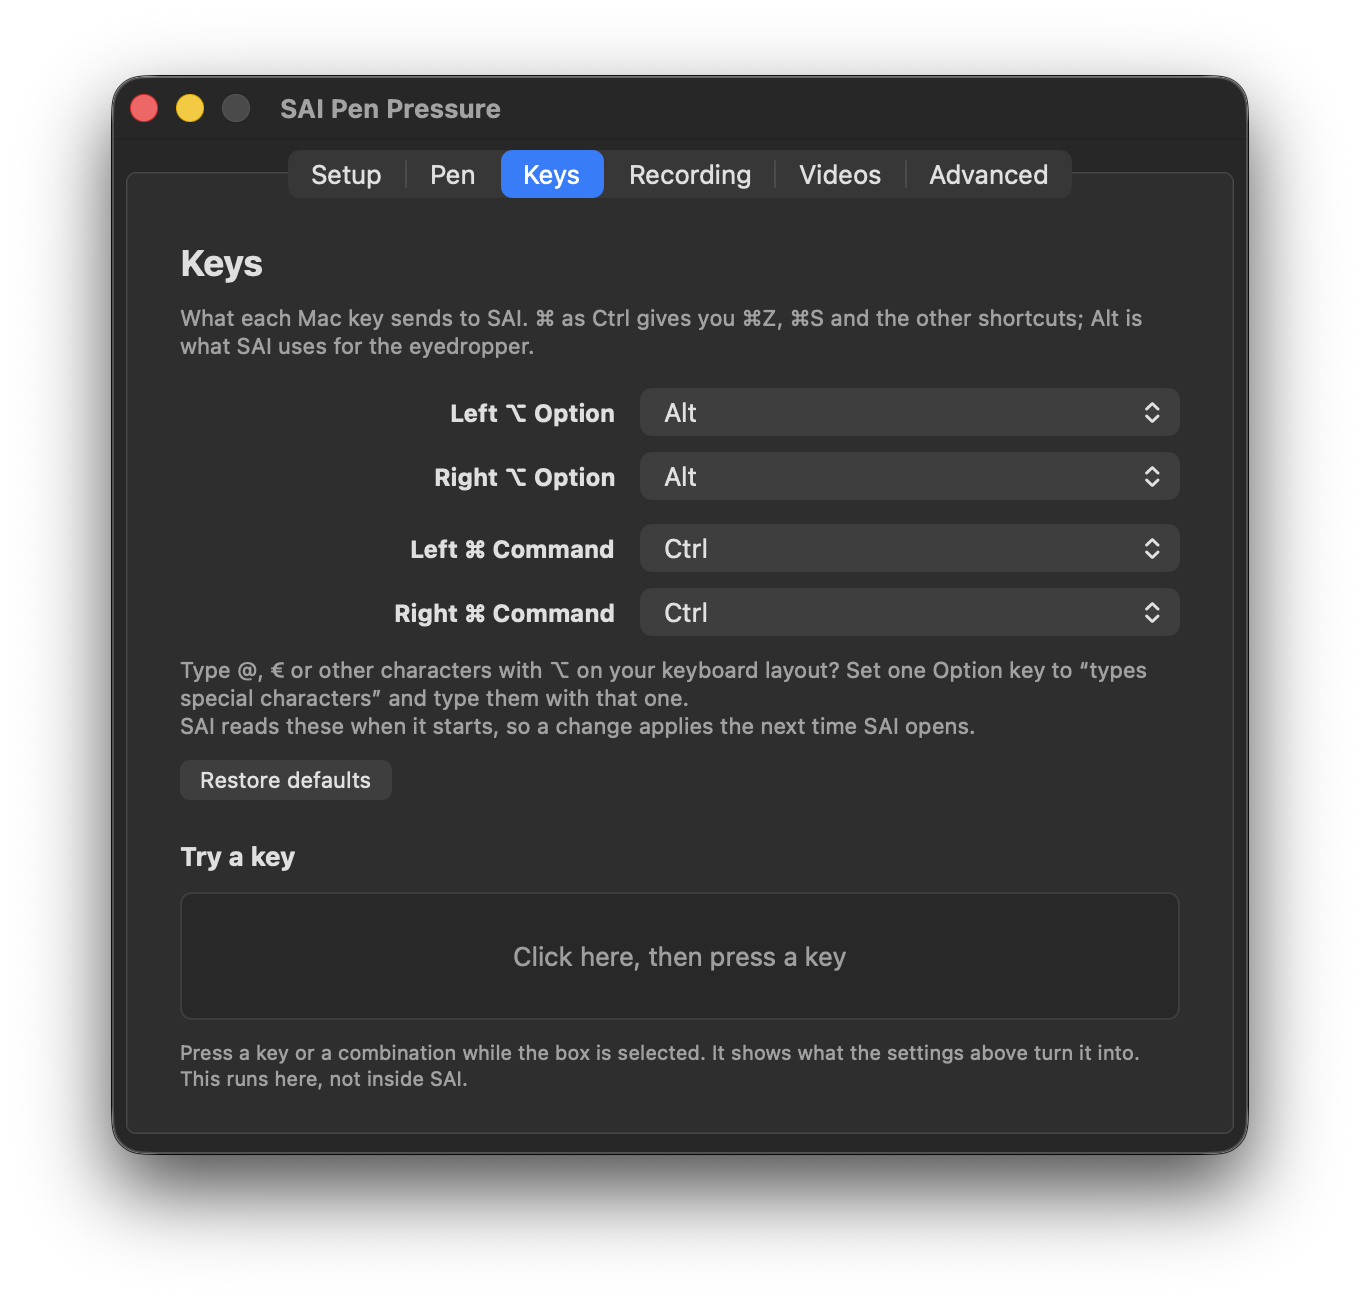
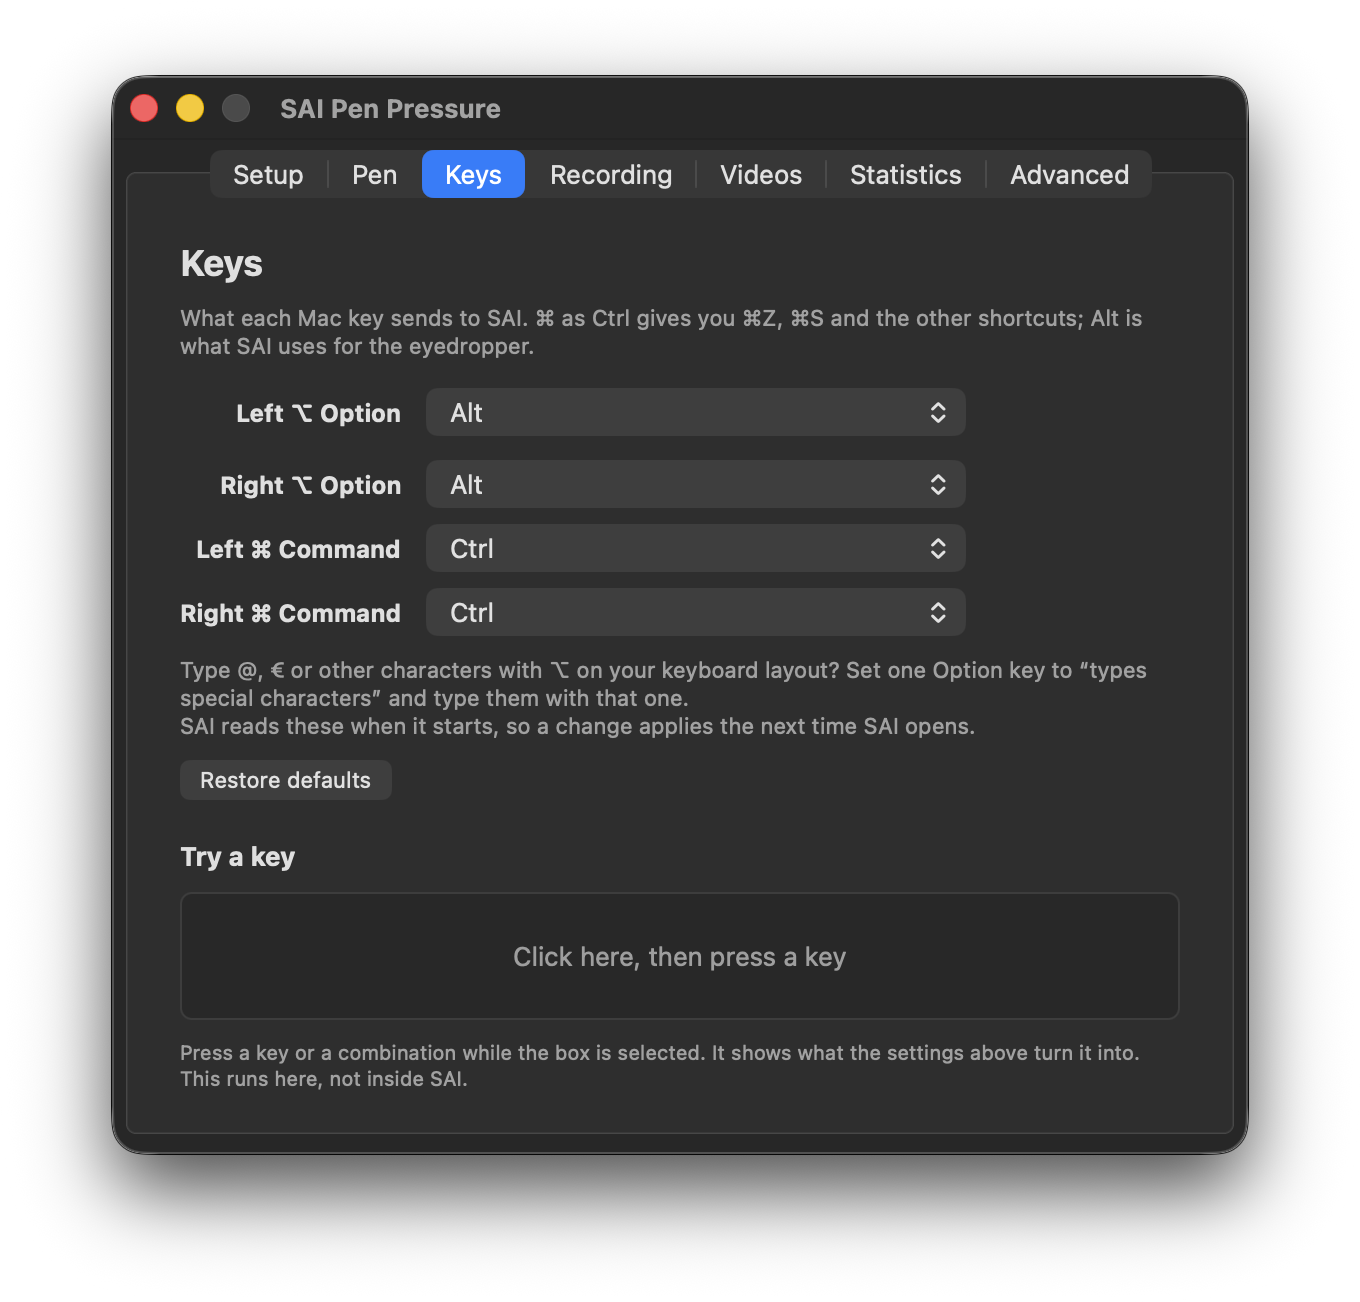
README: the Statistics tab, the new Videos grid, and screenshots of all seven tabs

diff --git a/README.md b/README.md
@@ -21,10 +21,10 @@ canvas** while you draw. Free and open source.
 
 ## What it looks like
 
-Six tabs, one window.
+Seven tabs, one window.
 
 <p align="center">
-  <a href="docs/assets/screenshots/all-tabs.png"><img src="docs/assets/screenshots/all-tabs.png" alt="All six tabs side by side. Top row: Setup, with Launch and Wake SAI; Pen, with pressure levels, pen feel presets, the curve and two more feel sliders, and a live test; Keys, with what each Option and Command key sends. Bottom row: Recording, with the timelapse switch and save folder; Videos, one video per drawing; Advanced, with developer mode, automatic updates, sharp text on Retina screens, the Language menu with the font in use, and the Wine in use." width="100%"></a>
+  <a href="docs/assets/screenshots/all-tabs.png"><img src="docs/assets/screenshots/all-tabs.png" alt="All seven tabs. Top row: Setup, with Launch and Wake SAI; Pen, with pressure levels, pen feel presets, the curve and two more feel sliders, and Test pen; Keys, with what each Option and Command key sends; Recording, with the timelapse switches and save folder. Bottom row: Videos, a grid of drawings with a bar for the selection; Statistics, with today, the last 7 days, the streak and a chart of the last two weeks; Advanced, with developer mode, automatic updates, sharp text on Retina screens, the Language menu with the font in use, and the Wine in use." width="100%"></a>
 </p>
 <p align="center"><sub>Full size:
   <a href="docs/assets/screenshots/setup.png">Setup</a> ·
@@ -32,6 +32,7 @@ Six tabs, one window.
   <a href="docs/assets/screenshots/keys.png">Keys</a> ·
   <a href="docs/assets/screenshots/recording.png">Recording</a> ·
   <a href="docs/assets/screenshots/videos.png">Videos</a> ·
+  <a href="docs/assets/screenshots/statistics.png">Statistics</a> ·
   <a href="docs/assets/screenshots/advanced.png">Advanced</a></sub></p>
 
 ### Setup
@@ -84,12 +85,36 @@ apply the next time SAI starts.
 
 ### Videos
 
-One video per drawing, even when you work on it over several evenings. Hover over a still to play
-it. **Export…** saves a copy at 30 seconds, 1 or 2 minutes, or full length. **More** renames the
-drawing, lists its sessions (to take out one that was filed with the wrong drawing), rebuilds the
-video, or deletes it.
+One video per drawing, even when you work on it over several evenings, shown as a grid of stills.
+Hover over a still to play it, double-click to open it.
+
+- **Select** the way Finder does: click one, ⌘-click to add or remove one, Shift-click for a
+  range, ⌘A for all.
+- The bar under the grid acts on the selection: **Play**, **Export…** (a copy at 30 seconds, 1 or
+  2 minutes, or full length), **Show in Finder** and **Delete…**.
+- **Delete** asks once, says exactly what goes, and moves it to the Trash, so a wrong click can be
+  undone. Several videos can go at once.
+- **Right-click** a video to rename the drawing, list its sessions (to take out one that was filed
+  with the wrong drawing) or rebuild the video.
 
 It does not edit videos beyond choosing their length.
+
+### Statistics
+
+How much you draw, counted while SAI is the app in front, whether or not you record.
+
+- **Today**, **Last 7 days** and your **streak** of days in a row, plus all-time totals and your
+  best day.
+- A chart with two views: **Days**, the last two weeks, and **Hours**, which hours of the day you
+  drew in over the last 30 days.
+- **Export CSV…** saves every day as a row for a spreadsheet: strokes, drawing and pen time,
+  average stroke, strokes per minute, sessions, the longest session, first and last stroke, and
+  minutes in each hour.
+- The menu bar shows today's total once you have drawn.
+
+Drawing time is the time the pen is down plus short pauses between strokes. A pause over a minute
+is a break and is not counted, and nor is time with SAI open but not drawing. It counts strokes and
+time, not what you drew or in which canvas.
 
 ### Advanced
 
@@ -129,6 +154,12 @@ It does not edit videos beyond choosing their length.
 - Records the **canvas, not the screen**: no panels, no cursor, and no camera lurching when you zoom or pan
 - Layer opacity and blend modes come through; **several open canvases become one video each**
 - Pick a target length; it encodes as you draw, so it costs megabytes rather than gigabytes
+
+**Drawing statistics**
+
+- **Time and strokes per day**, a streak, and which hours of the day you draw in
+- Counted from the pen itself, so it works with recording off, and stays on your Mac
+- **Export CSV…** with every day and every hour, for your own charts
 
 **Setup and upkeep**
 
